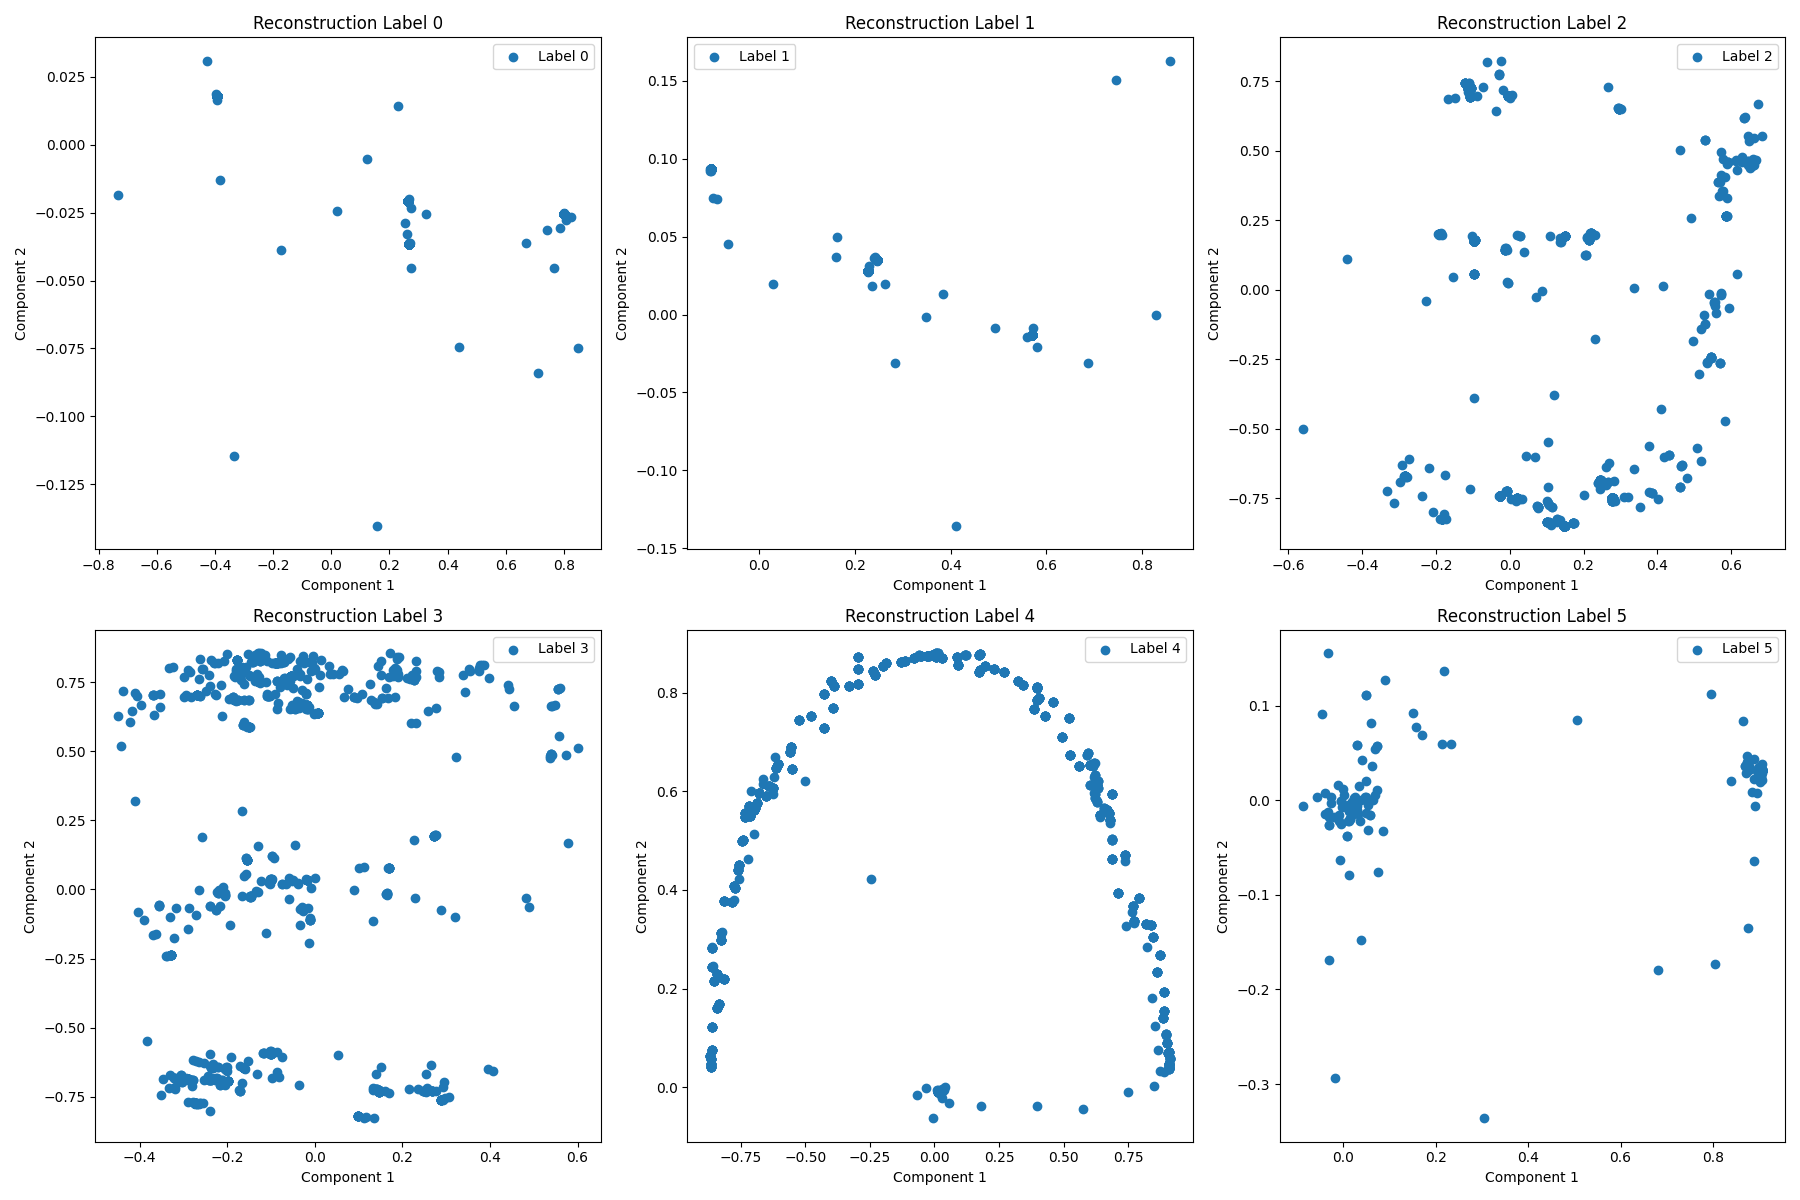
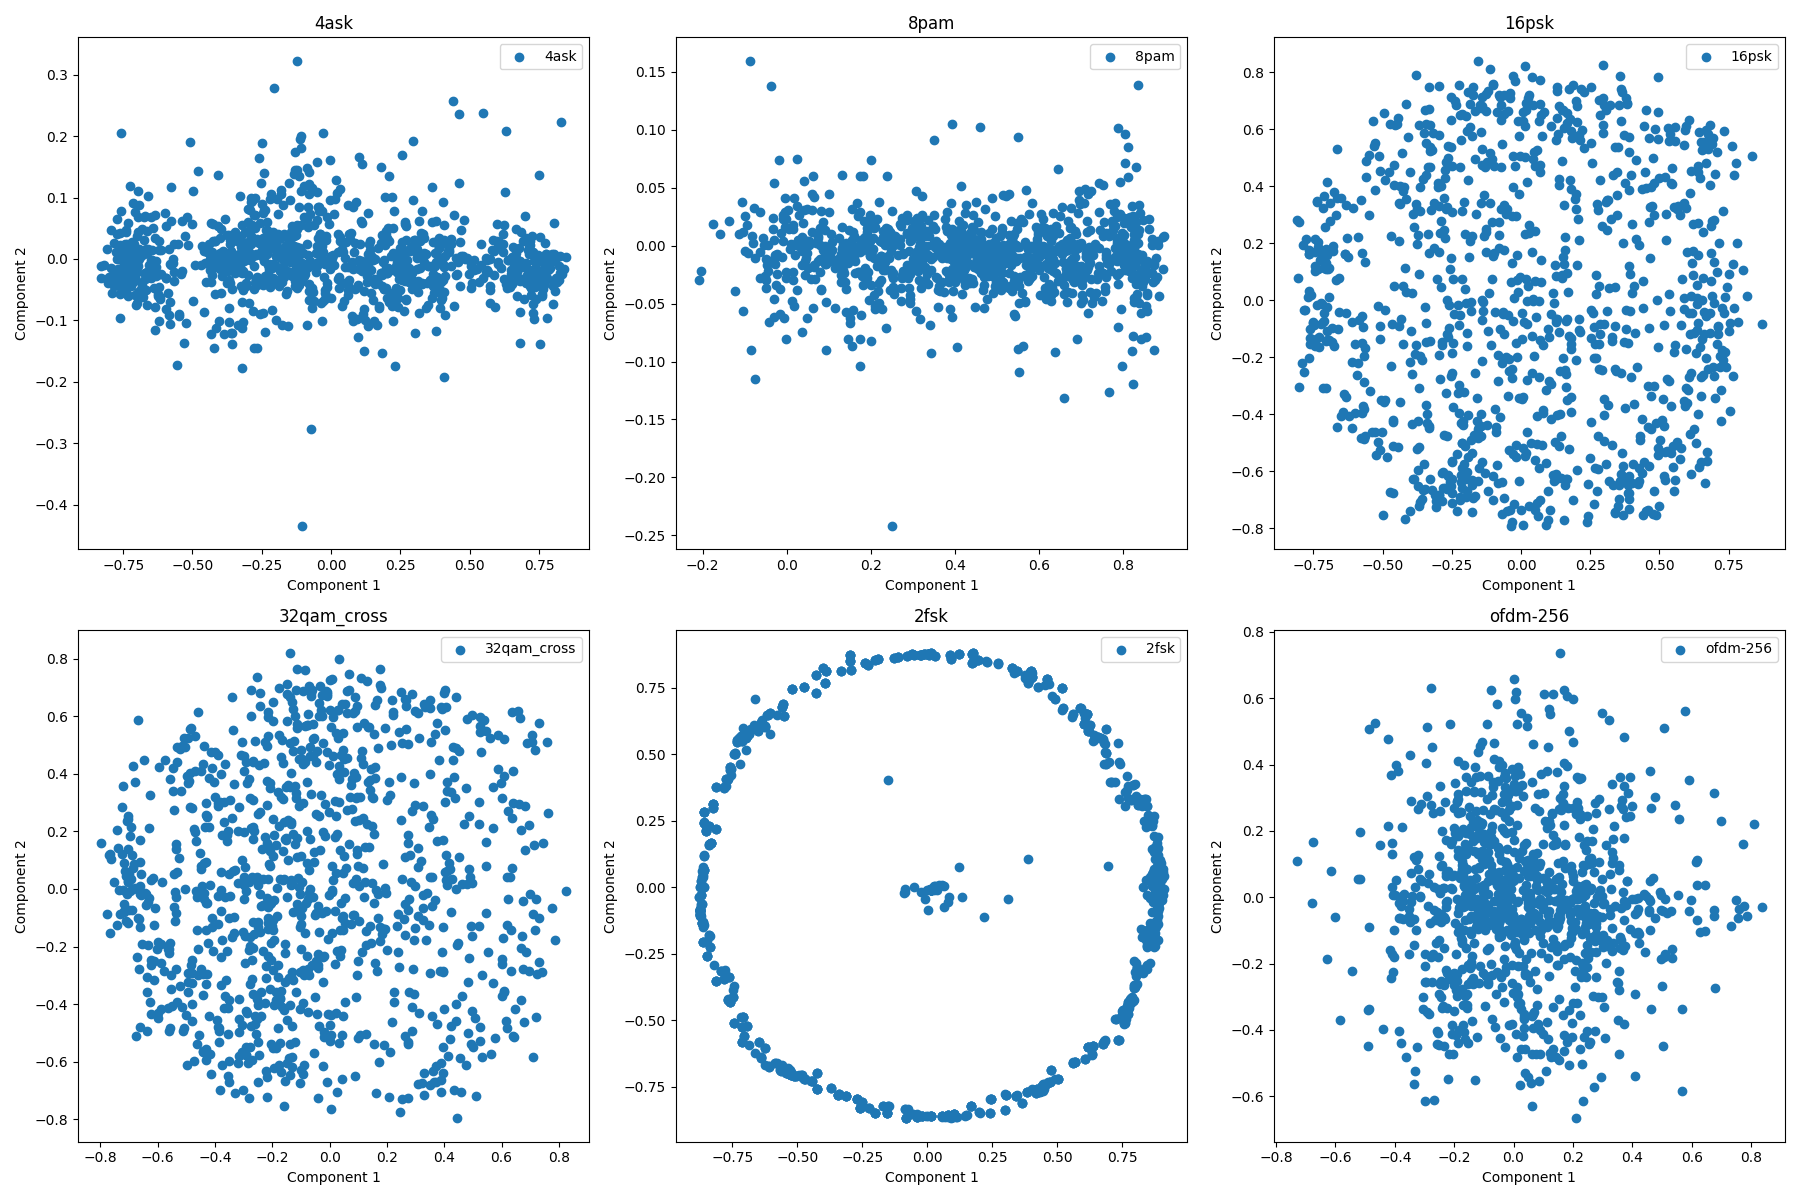
Updated Generation logic to sample using torch multinomial instead of argmax

diff --git a/run/Evaluate_models.py b/run/Evaluate_models.py
@@ -12,27 +12,8 @@ from src.Dataset import getDataLoader
 import matplotlib.pyplot as plot
 import numpy as np
 
-
-def plot_batch_reconstruction(original_batch, reconstruction_batch, idx, folder):
-    plt.figure(figsize=(12, 12))
-    
-    for i in range(4):
-
-        plt.subplot(4, 2, 2 * i + 1)
-        plt.plot(original_batch[i])
-        plt.title(f'Original Signal {i+1}')
-        
-        plt.subplot(4, 2, 2 * i + 2)
-        plt.plot(reconstruction_batch[i])
-        plt.title(f'Reconstructed Signal {i+1}')
-    
-    plt.tight_layout()
-    plt.savefig(f"{folder}/context_len_{idx}.png")
-    plt.close()
-
-
-
-def plot_generated_reconstructions(reconstructions, labels, folder,idx):
+# Define the plotting function
+def plot_generated_reconstructions(reconstructions, labels, folder, idx, classes):
     # Create the eval folder if it doesn't exist
     os.makedirs(folder, exist_ok=True)
 
@@ -44,14 +25,13 @@ def plot_generated_reconstructions(reconstructions, labels, folder,idx):
     # Create a figure with subplots
     plt.figure(figsize=(18, 6 * rows))  # Adjust the size as needed
 
-
     # Plot each reconstruction in a subplot
     for i, rec in enumerate(reconstructions):
         if rec.nelement() == 0:
             continue  # Skip plotting if the tensor is empty
         ax = plt.subplot(rows, cols, i + 1)
-        ax.scatter(rec[0].cpu().detach().numpy(), rec[1].cpu().detach().numpy(), label=f'Label {labels[i]}')
-        ax.set_title(f'Reconstruction Label {labels[i]}')
+        ax.scatter(rec[0].cpu().detach().numpy(), rec[1].cpu().detach().numpy(), label=classes[labels[i]])
+        ax.set_title(f'{classes[labels[i]]}')
         ax.set_xlabel('Component 1')
         ax.set_ylabel('Component 2')
         ax.legend()
@@ -61,53 +41,55 @@ def plot_generated_reconstructions(reconstructions, labels, folder,idx):
     plt.savefig(os.path.join(folder, f'reconstruction_{idx}_labels_0_to_5.png'))
     plt.close()
 
-
-
 if __name__ == "__main__":
-    
+    # Define the classes
+    classes = ["4ask", "8pam", "16psk", "32qam_cross", "2fsk", "ofdm-256"]
+
+    # Load models
     VQVAE = torch.load(VQVAE_PATH).to(device)
     VQVAE.eval()  
     modelTransformer = torch.load(MONAI_TRANSFORMER_MODEL_PATH).to(device)
     modelTransformer.eval()
     modelGPT2 = torch.load(TRANSFORMER_MODEL_PATH).to(device)
     modelGPT2.eval()
-    
+
+    # Load data
     train_dl, ds_train, test_dl, ds_test, val_dl, ds_val = getDataLoader(
-        classes = classes,
-        iq_samples = iq_samples,
-        samples_per_class= samples_per_class,
+        classes=classes,
+        iq_samples=iq_samples,
+        samples_per_class=samples_per_class,
         batch_size=4
     )
   
-    for j in range(0,10):
+    
+
+    # Generate and plot reconstructions for Transformer model
+    for j in range(0, 10):
         all_reconstructions = []
-        labels = list(range(6))
+        labels = list(range(len(classes)))  # Dynamically adjust based on the number of classes
         for i in labels:
-            new_indices = torch.tensor(modelTransformer.generate(torch.tensor([[i]]), max_new_tokens=513), device=device)
-            #print(new_indices[:,1:].shape)
-            reconstruction = VQVAE.decode(VQVAE.codebook.lookup(new_indices[:,1:]))
-            #print(reconstruction.shape)
+            new_indices = torch.tensor(modelTransformer.generate(torch.tensor([[i]]).to(device), max_new_tokens=513), device=device)
+            reconstruction = VQVAE.decode(VQVAE.codebook.lookup(new_indices[:, 1:]))
             all_reconstructions.append(reconstruction.squeeze()) 
 
-        # Stack all reconstructions into a tensor of shape [6, 2, 1024]
+        # Stack all reconstructions
         all_reconstructions = torch.stack(all_reconstructions)
-        print(all_reconstructions.shape)
-        plot_generated_reconstructions(all_reconstructions, labels, eval_folder,j)
+        #print(all_reconstructions.shape)
+        plot_generated_reconstructions(all_reconstructions, labels, eval_folder, j, classes)
 
+    # Changing evaluation folder
     eval_folder = f'EvaluationResults/GPT2_results/'
 
-    for j in range(0,10):
+    # Generate and plot reconstructions for GPT2 model
+    for j in range(0, 10):
         all_reconstructions = []
-        labels = list(range(6))
+        labels = list(range(len(classes)))
         for i in labels:
-            new_indices = torch.tensor(modelGPT2.generate(torch.tensor([[i]]), max_new_tokens=513), device=device)
-            #print(new_indices[:,1:].shape)
-            reconstruction = VQVAE.decode(VQVAE.codebook.lookup(new_indices[:,1:]))
-            #print(reconstruction.shape)
+            new_indices = torch.tensor(modelGPT2.generate(torch.tensor([[i]]).to(device), max_new_tokens=513), device=device)
+            reconstruction = VQVAE.decode(VQVAE.codebook.lookup(new_indices[:, 1:]))
             all_reconstructions.append(reconstruction.squeeze()) 
 
-        # Stack all reconstructions into a tensor of shape [6, 2, 1024]
+        # Stack all reconstructions
         all_reconstructions = torch.stack(all_reconstructions)
-        print(all_reconstructions.shape)
-        plot_generated_reconstructions(all_reconstructions, labels, eval_folder,j)
-
+        #print(all_reconstructions.shape)
+        plot_generated_reconstructions(all_reconstructions, labels, eval_folder, j, classes)

diff --git a/run/src/TransformerMonai.py b/run/src/TransformerMonai.py
@@ -2,6 +2,7 @@ import torch
 import torch.nn as nn
 from generative.networks.nets import DecoderOnlyTransformer
 from src.utils import *
+import torch.nn.functional as F
 
 class MonaiDecoderOnlyModel(nn.Module):
     def __init__(self, d_model=512, nhead=8, num_layers=6, vocab_size=64, max_len=64):
@@ -20,29 +21,41 @@ class MonaiDecoderOnlyModel(nn.Module):
         self.lm_head = nn.Linear(d_model, vocab_size)
 
     
-    def generate(self, idx, max_new_tokens):
-        self.eval()
-        # Initialize generated sequence with idx as a batch
-        batch_size = idx.size(0)
-        generated_sequence = idx.clone().to(device=device)  # Start with given idx of shape (4, 1)
-        print("generating from MONAI transformer")
-        for _ in range(1, max_new_tokens):
-            with torch.no_grad():
-                # Forward pass through the model
-                output = self(generated_sequence)  # Output shape: (batch_size, seq_len, vocab_size)
-                
-                # Get the last token's logits for each sequence in the batch
-                next_tokens = torch.argmax(output[:, -1, :], dim=-1)  # Shape: (batch_size,)
-                
-                # Append the predicted tokens to the sequence
-                next_tokens = next_tokens.unsqueeze(1)  # Shape: (batch_size, 1)
-                generated_sequence = torch.cat([generated_sequence, next_tokens], dim=1)  # Shape: (batch_size, seq_len + 1)
 
-                # Stop if the generated sequence reaches max length
-                if generated_sequence.size(1) >= max_new_tokens:
-                    break
-        
-        return generated_sequence  # Shape: (4, 64)
+    def generate(self, idx, max_new_tokens):
+        """
+        Generate a sequence of tokens based on the initial context `idx`.
+
+        Args:
+            idx (torch.Tensor): Initial context of shape (B, T) with indices.
+            max_new_tokens (int): Number of tokens to generate.
+
+        Returns:
+            torch.Tensor: Generated sequence of shape (B, T + max_new_tokens).
+        """
+        self.eval()  # Ensure the model is in evaluation mode
+
+        with torch.no_grad():  # Disable gradient computation for inference
+            for _ in range(max_new_tokens):
+                # Crop `idx` to the last `block_size` tokens for efficient processing
+                idx_cond = idx[:, -block_size:]
+                
+                # Forward pass to get logits
+                logits = self(idx_cond)
+                
+                # Focus only on the last time step (prediction for the next token)
+                logits = logits[:, -1, :]  # Shape: (B, vocab_size)
+                
+                # Convert logits to probabilities using softmax
+                probs = F.softmax(logits, dim=-1)  # Shape: (B, vocab_size)
+                
+                # Sample the next token from the probability distribution
+                idx_next = torch.multinomial(probs, num_samples=1)  # Shape: (B, 1)
+                
+                # Append the sampled token to the sequence
+                idx = torch.cat((idx, idx_next), dim=1)  # Shape: (B, T + 1)
+
+        return idx
 
     def forward(self, src, tgt=None):
         

diff --git a/run/src/Transformer.py b/run/src/Transformer.py
@@ -113,25 +113,37 @@ class TransformerModel(nn.Module):
         return logits, loss
 
     def generate(self, idx, max_new_tokens):
-        self.eval()
-        # Initialize generated sequence with idx as a batch
-        batch_size = idx.size(0)
-        generated_sequence = idx.clone().to(device=device)  # Start with given idx of shape (4, 1)
-        print("generating from original transformer")
-        for _ in range(1, max_new_tokens):
-            with torch.no_grad():
-                # Forward pass through the model
-                output,_ = self(generated_sequence)  # Output shape: (batch_size, seq_len, vocab_size)
-                #print(output)
-                # Get the last token's logits for each sequence in the batch
-                next_tokens = torch.argmax(output[:, -1, :], dim=-1)  # Shape: (batch_size,)
-                
-                # Append the predicted tokens to the sequence
-                next_tokens = next_tokens.unsqueeze(1)  # Shape: (batch_size, 1)
-                generated_sequence = torch.cat([generated_sequence, next_tokens], dim=1)  # Shape: (batch_size, seq_len + 1)
+        """
+        Generate a sequence of tokens based on the initial context `idx`.
 
-                # Stop if the generated sequence reaches max length
-                if generated_sequence.size(1) >= max_new_tokens:
-                    break
-        
-        return generated_sequence  # Shape: (4, 64)
+        Args:
+            idx (torch.Tensor): Initial context of shape (B, T) with indices.
+            max_new_tokens (int): Number of tokens to generate.
+
+        Returns:
+            torch.Tensor: Generated sequence of shape (B, T + max_new_tokens).
+        """
+        self.eval()  # Ensure the model is in evaluation mode
+
+        with torch.no_grad():  # Disable gradient computation for inference
+            for _ in range(max_new_tokens):
+                # Crop `idx` to the last `block_size` tokens for efficient processing
+                idx_cond = idx[:, -block_size:]
+                
+                # Forward pass to get logits
+                logits, _ = self(idx_cond)
+                
+                # Focus only on the last time step (prediction for the next token)
+                logits = logits[:, -1, :]  # Shape: (B, vocab_size)
+                
+                # Convert logits to probabilities using softmax
+                probs = F.softmax(logits, dim=-1)  # Shape: (B, vocab_size)
+                
+                # Sample the next token from the probability distribution
+                idx_next = torch.multinomial(probs, num_samples=1)  # Shape: (B, 1)
+                
+                # Append the sampled token to the sequence
+                idx = torch.cat((idx, idx_next), dim=1)  # Shape: (B, T + 1)
+
+        return idx
+

diff --git a/run/train_MonaiTransformer.py b/run/train_MonaiTransformer.py
@@ -109,23 +109,23 @@ if __name__ == "__main__":
 
     # Initialize model parameters
     d_model = 64
-    nhead = 16
-    num_layers = 16
+    nhead = 8
+    num_layers = 8
     vocab_size = 64  # Numbers between 0 and 63
     max_len = 513
-    batch_size = 16
+    batch_size = 32
 
     # Initialize model
     m = MonaiDecoderOnlyModel(d_model=d_model, nhead=nhead, num_layers=num_layers, vocab_size=vocab_size, max_len=max_len).to(device)
-    #model = torch.load(MONAI_TRANSFORMER_MODEL_PATH).to(device)
+    m = torch.load(MONAI_TRANSFORMER_MODEL_PATH).to(device)
 
 
-    optimizer = torch.optim.Adam(m.parameters(), lr = 1e-4)
+    optimizer = torch.optim.Adam(m.parameters(), lr = 5e-4)
     x_train_loader = DataLoader(x_train,batch_size=batch_size)
     y_train_loader = DataLoader(y_train,batch_size=batch_size)
 
-    epochs = 100
-    learning_rate = 5e-4
+    epochs = 500
+    learning_rate = 1e-5
     m = m.to(device)
 
 

diff --git a/run/train_transformer.py b/run/train_transformer.py
@@ -70,8 +70,8 @@ if __name__ == '__main__':
     optimizer = torch.optim.Adam(m.parameters(), lr = 1e-3)
     x_train_loader = DataLoader(x_train,batch_size=batch_size)
     y_train_loader = DataLoader(y_train,batch_size=batch_size)
-    epochs = 100
-    learning_rate = 5e-4
+    epochs = 400
+    learning_rate = 1e-4
 
 
     optimizer = torch.optim.AdamW(m.parameters(), lr=learning_rate)

diff --git a/run/src/utils.py b/run/src/utils.py
@@ -22,9 +22,9 @@ in_channels = 2
 
 block_size = 512
 vocab_size = codebook_slots
-n_head = 16
-n_layer = 16
-n_embd = 32
+n_head = 8
+n_layer = 8
+n_embd = 16
 dropout = 0.1
 TRANSFORMER_MODEL_PATH = f'src/SavedModels/Transformer_epochs_{epochs}.pt'
 MONAI_TRANSFORMER_MODEL_PATH = f'src/SavedModels/MonaiTransformer_epochs_{epochs}.pt'
